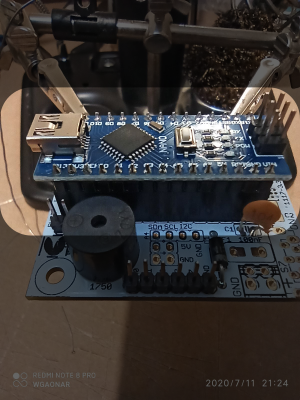
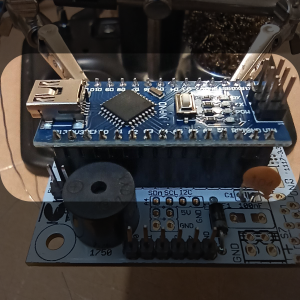
Updates Escornabot.html

diff --git a/Escornabot.html b/Escornabot.html
@@ -981,6 +981,7 @@ tarjeta tal como se muestra en la Figura 13.</p>
   correcta para que asiente de forma plana sobre la tarjeta y la resistencia 
   R3 de 18 KΩ no le estorbe y quede debajo y oculta.
 </p>
+
 <div class="row">
   <div class="column">
     <figure>
@@ -1019,3 +1020,98 @@ tarjeta tal como se muestra en la Figura 13.</p>
     Figura 16: Soldadura de las dos primeras terminales del zócalo.
   </figcaption>
 </figure>
+
+<h3>Soldadura del buzzer</h3>
+<p>
+  En primer lugar, proceder a soldar los 2 pines tal como se 
+  muestra en la Figura 17a los cuales permitirán activar / desactivar el 
+  buzzer de forma manual a través de la colocación de un puente o jumper.
+</p>
+<p>
+  En segundo lugar, colocar el buzzer fijándose en la etiqueta: ⊕ que tiene 
+  estampada en la parte superior tal como se muestra en la Figura 17b para 
+  que coincida con la misma marca impresa en la tarjeta. Una vez realizado 
+  esto soldar los dos pines del buzzer. 
+</p>
+
+<div class="row">
+  <div class="column">
+    <figure>
+      <img src="/assets/Escornabot/CPU/cpu_postes_buzzer_1.png"
+        alt="cpu_postes_buzzer_1.png" style="width:100%">
+      <figcaption>
+        Figura 17a: Soldadura de los pines de activación del buzzer.
+      </figcaption>
+    </figure>
+  </div>
+  <div class="column">
+    <figure>
+      <img src="/assets/Escornabot/CPU/cpu_buzzer_1.png"
+        alt="cpu_buzzer_1.png" style="width:100%">
+      <figcaption>
+        Figura 17b: Orientación correcta del buzzer para soldarlo.
+      </figcaption>
+    </figure>
+  </div>
+</div>
+
+<h3>Soldadura de los pines de conexión a la botonera</h3>
+<p>
+  Los 6 pines de conexión permiten conectar los cables que vienen de 
+  la botonera. Antes de soldarlos hay que colocarlos como se muestra en la 
+  Figura 18, fijándose que <span style="color: red;">queden hacia abajo</span>  
+  y soldarlos por la parte de arriba de la tarjeta.
+</p>
+
+<figure style="text-align: center">
+  <p style="text-align: center"> 
+    <img src="/assets/Escornabot/CPU/cpu_pines_botonera_1.png"
+    alt="cpu_pines_botonera_1.png" width="50%"/>
+  </p>
+  <figcaption>
+    Figura 18: Soldadura de los pines de conexión a la botonera.
+  </figcaption>
+</figure>
+
+<h3>Soldadura de los pines para el Arduino Nano</h3>
+<p>
+  Al igual que el driver ULN2803, el Arduino Nano tiene que ir sobre las dos 
+  tiras de 15 pines tipo hembra que le servirán de base, con el objetivo de que 
+  sea fácil reemplazarlo en caso de cualquier avería. 
+</p>
+
+<p>
+  Para asegurar que las tiras de pines queden alineadas de forma correcta, 
+  <span style="color: red;">primero </span> se coloca el Arduino Nano sobre 
+  ellas tal como se muestra en la Figura 19a.   
+</p>
+
+<p>
+  En seguida, se procede a soldar uno o dos pines de cada lado para fijarlas 
+  en posición, y posteriormente se puede retirar el Arduino Nano 
+  para continuar con la soldadura de los pines restantes como se observa en la 
+  Figura 19b.
+</p>
+
+<div class="row">
+  <div class="column">
+    <figure>
+      <img src="/assets/Escornabot/CPU/cpu_arduino_1.png"
+        alt="cpu_arduino_1.png" style="width:100%">
+      <figcaption>
+        Figura 19a: Arduino Nano colocado sobre los pines base y a su vez
+        sobre la tarjeta de control.
+      </figcaption>
+    </figure>
+  </div>
+  <div class="column">
+    <figure>
+      <img src="/assets/Escornabot/CPU/cpu_arduino_2.png"
+        alt="cpu_arduino_2.png" style="width:100%">
+      <figcaption>
+        Figura 19b: Soldadura de las 2 tiras de los pines base del Arduino 
+        Nano.
+      </figcaption>
+    </figure>
+  </div>
+</div>
